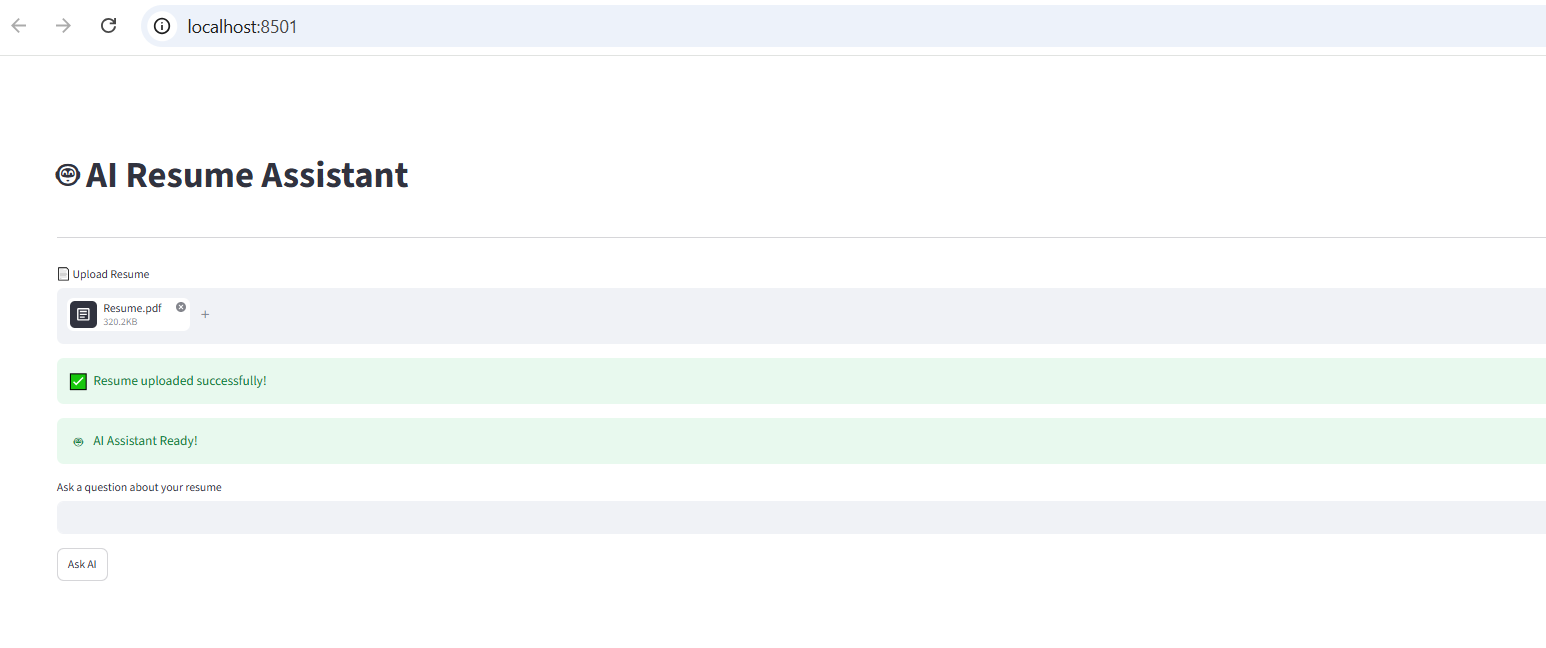
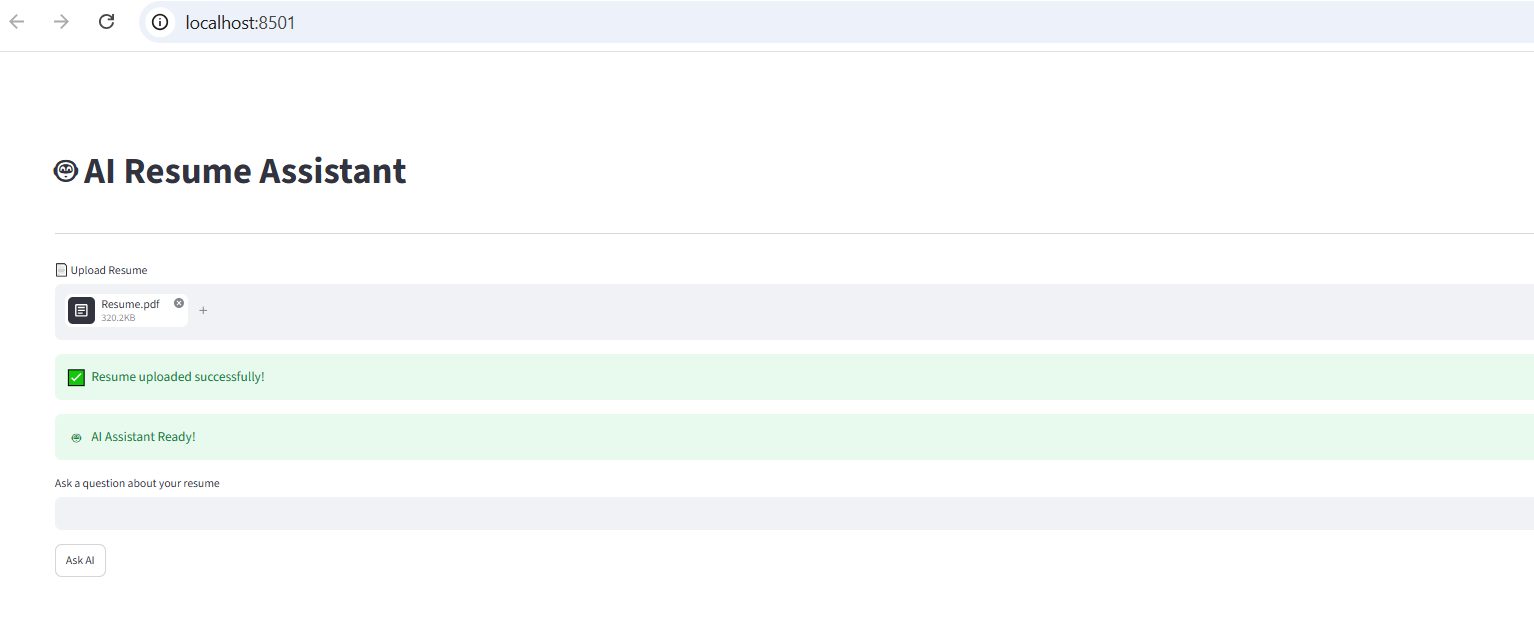
Module 16: Finalized project structure and repository cleanup

diff --git a/src/cover_letter.py b/src/cover_letter.py
@@ -1,3 +1,9 @@
+"""
+Future Enhancement:
+AI Cover Letter Generator
+Currently not integrated into the Streamlit UI.
+"""
+
 from src.services import ask_ai
 
 